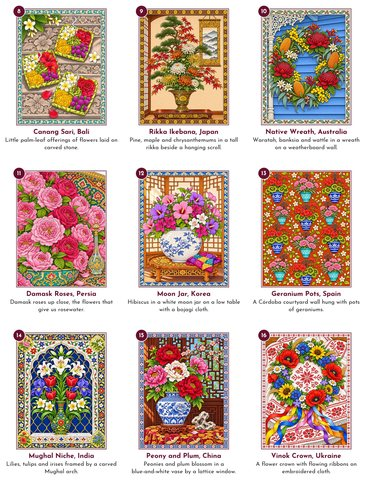
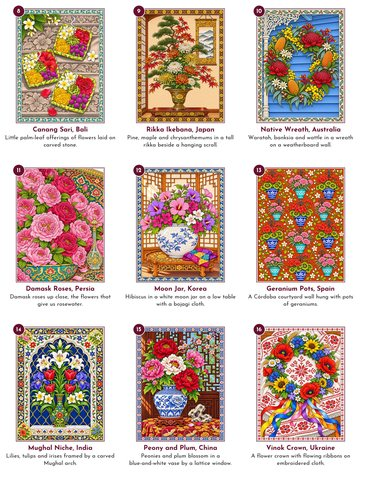
Even key pages and strip captions; shorter Flowers captions

diff --git a/colouring-for-adults.html b/colouring-for-adults.html
@@ -143,26 +143,26 @@
 
       <div class="marquee" style="--dur: 50s" role="region" aria-label="Pages from Colouring Flowers of the World for Adults. Click a page to see it bigger.">
         <div class="track">
-          <figure><a class="zoom" href="pv-fw-00a-lg.jpg" data-caption="Mughal niche, India, close-ups"><img src="pv-fw-00a.jpg" alt="Mughal niche, India, close-ups" loading="lazy"></a><figcaption>Mughal niche, India, close-ups</figcaption></figure>
-          <figure><a class="zoom" href="pv-fw-00b-lg.jpg" data-caption="Mughal niche, India, coloured"><img src="pv-fw-00b.jpg" alt="Mughal niche, India, coloured" loading="lazy"></a><figcaption>Mughal niche, India, coloured</figcaption></figure>
-          <figure><a class="zoom" href="pv-fw-01a-lg.jpg" data-caption="Protea and fynbos, South Africa, close-ups"><img src="pv-fw-01a.jpg" alt="Protea and fynbos, South Africa, close-ups" loading="lazy"></a><figcaption>Protea and fynbos, South Africa, close-ups</figcaption></figure>
-          <figure><a class="zoom" href="pv-fw-01b-lg.jpg" data-caption="Protea and fynbos, South Africa, coloured"><img src="pv-fw-01b.jpg" alt="Protea and fynbos, South Africa, coloured" loading="lazy"></a><figcaption>Protea and fynbos, South Africa, coloured</figcaption></figure>
-          <figure><a class="zoom" href="pv-fw-02a-lg.jpg" data-caption="Painted tray, Russia, close-ups"><img src="pv-fw-02a.jpg" alt="Painted tray, Russia, close-ups" loading="lazy"></a><figcaption>Painted tray, Russia, close-ups</figcaption></figure>
-          <figure><a class="zoom" href="pv-fw-02b-lg.jpg" data-caption="Painted tray, Russia, coloured"><img src="pv-fw-02b.jpg" alt="Painted tray, Russia, coloured" loading="lazy"></a><figcaption>Painted tray, Russia, coloured</figcaption></figure>
-          <figure><a class="zoom" href="pv-fw-key0-lg.jpg" data-caption="Where It Blooms, the key at the back"><img src="pv-fw-key0.jpg" alt="Where It Blooms, the key at the back" loading="lazy"></a><figcaption>Where It Blooms, the key at the back</figcaption></figure>
-          <figure><a class="zoom" href="pv-fw-key1-lg.jpg" data-caption="Where It Blooms, the key at the back"><img src="pv-fw-key1.jpg" alt="Where It Blooms, the key at the back" loading="lazy"></a><figcaption>Where It Blooms, the key at the back</figcaption></figure>
-          <figure><a class="zoom" href="pv-fw-key2-lg.jpg" data-caption="Where It Blooms, the key at the back"><img src="pv-fw-key2.jpg" alt="Where It Blooms, the key at the back" loading="lazy"></a><figcaption>Where It Blooms, the key at the back</figcaption></figure>
-          <figure><a class="zoom" href="pv-fw-key3-lg.jpg" data-caption="Where It Blooms, the key at the back"><img src="pv-fw-key3.jpg" alt="Where It Blooms, the key at the back" loading="lazy"></a><figcaption>Where It Blooms, the key at the back</figcaption></figure>
-          <figure aria-hidden="true"><a class="zoom" href="pv-fw-00a-lg.jpg" tabindex="-1" data-caption="Mughal niche, India, close-ups"><img src="pv-fw-00a.jpg" alt="" loading="lazy"></a><figcaption>Mughal niche, India, close-ups</figcaption></figure>
-          <figure aria-hidden="true"><a class="zoom" href="pv-fw-00b-lg.jpg" tabindex="-1" data-caption="Mughal niche, India, coloured"><img src="pv-fw-00b.jpg" alt="" loading="lazy"></a><figcaption>Mughal niche, India, coloured</figcaption></figure>
-          <figure aria-hidden="true"><a class="zoom" href="pv-fw-01a-lg.jpg" tabindex="-1" data-caption="Protea and fynbos, South Africa, close-ups"><img src="pv-fw-01a.jpg" alt="" loading="lazy"></a><figcaption>Protea and fynbos, South Africa, close-ups</figcaption></figure>
-          <figure aria-hidden="true"><a class="zoom" href="pv-fw-01b-lg.jpg" tabindex="-1" data-caption="Protea and fynbos, South Africa, coloured"><img src="pv-fw-01b.jpg" alt="" loading="lazy"></a><figcaption>Protea and fynbos, South Africa, coloured</figcaption></figure>
-          <figure aria-hidden="true"><a class="zoom" href="pv-fw-02a-lg.jpg" tabindex="-1" data-caption="Painted tray, Russia, close-ups"><img src="pv-fw-02a.jpg" alt="" loading="lazy"></a><figcaption>Painted tray, Russia, close-ups</figcaption></figure>
-          <figure aria-hidden="true"><a class="zoom" href="pv-fw-02b-lg.jpg" tabindex="-1" data-caption="Painted tray, Russia, coloured"><img src="pv-fw-02b.jpg" alt="" loading="lazy"></a><figcaption>Painted tray, Russia, coloured</figcaption></figure>
-          <figure aria-hidden="true"><a class="zoom" href="pv-fw-key0-lg.jpg" tabindex="-1" data-caption="Where It Blooms, the key at the back"><img src="pv-fw-key0.jpg" alt="" loading="lazy"></a><figcaption>Where It Blooms, the key at the back</figcaption></figure>
-          <figure aria-hidden="true"><a class="zoom" href="pv-fw-key1-lg.jpg" tabindex="-1" data-caption="Where It Blooms, the key at the back"><img src="pv-fw-key1.jpg" alt="" loading="lazy"></a><figcaption>Where It Blooms, the key at the back</figcaption></figure>
-          <figure aria-hidden="true"><a class="zoom" href="pv-fw-key2-lg.jpg" tabindex="-1" data-caption="Where It Blooms, the key at the back"><img src="pv-fw-key2.jpg" alt="" loading="lazy"></a><figcaption>Where It Blooms, the key at the back</figcaption></figure>
-          <figure aria-hidden="true"><a class="zoom" href="pv-fw-key3-lg.jpg" tabindex="-1" data-caption="Where It Blooms, the key at the back"><img src="pv-fw-key3.jpg" alt="" loading="lazy"></a><figcaption>Where It Blooms, the key at the back</figcaption></figure>
+          <figure><a class="zoom" href="pv-fw-00a-lg.jpg" data-caption="Mughal niche, close-ups"><img src="pv-fw-00a.jpg" alt="Mughal niche, close-ups" loading="lazy"></a><figcaption>Mughal niche, close-ups</figcaption></figure>
+          <figure><a class="zoom" href="pv-fw-00b-lg.jpg" data-caption="Mughal niche, coloured"><img src="pv-fw-00b.jpg" alt="Mughal niche, coloured" loading="lazy"></a><figcaption>Mughal niche, coloured</figcaption></figure>
+          <figure><a class="zoom" href="pv-fw-01a-lg.jpg" data-caption="Protea, close-ups"><img src="pv-fw-01a.jpg" alt="Protea, close-ups" loading="lazy"></a><figcaption>Protea, close-ups</figcaption></figure>
+          <figure><a class="zoom" href="pv-fw-01b-lg.jpg" data-caption="Protea, coloured"><img src="pv-fw-01b.jpg" alt="Protea, coloured" loading="lazy"></a><figcaption>Protea, coloured</figcaption></figure>
+          <figure><a class="zoom" href="pv-fw-02a-lg.jpg" data-caption="Painted tray, close-ups"><img src="pv-fw-02a.jpg" alt="Painted tray, close-ups" loading="lazy"></a><figcaption>Painted tray, close-ups</figcaption></figure>
+          <figure><a class="zoom" href="pv-fw-02b-lg.jpg" data-caption="Painted tray, coloured"><img src="pv-fw-02b.jpg" alt="Painted tray, coloured" loading="lazy"></a><figcaption>Painted tray, coloured</figcaption></figure>
+          <figure><a class="zoom" href="pv-fw-key0-lg.jpg" data-caption="The key at the back"><img src="pv-fw-key0.jpg" alt="The key at the back" loading="lazy"></a><figcaption>The key at the back</figcaption></figure>
+          <figure><a class="zoom" href="pv-fw-key1-lg.jpg" data-caption="The key at the back"><img src="pv-fw-key1.jpg" alt="The key at the back" loading="lazy"></a><figcaption>The key at the back</figcaption></figure>
+          <figure><a class="zoom" href="pv-fw-key2-lg.jpg" data-caption="The key at the back"><img src="pv-fw-key2.jpg" alt="The key at the back" loading="lazy"></a><figcaption>The key at the back</figcaption></figure>
+          <figure><a class="zoom" href="pv-fw-key3-lg.jpg" data-caption="The key at the back"><img src="pv-fw-key3.jpg" alt="The key at the back" loading="lazy"></a><figcaption>The key at the back</figcaption></figure>
+          <figure aria-hidden="true"><a class="zoom" href="pv-fw-00a-lg.jpg" tabindex="-1" data-caption="Mughal niche, close-ups"><img src="pv-fw-00a.jpg" alt="" loading="lazy"></a><figcaption>Mughal niche, close-ups</figcaption></figure>
+          <figure aria-hidden="true"><a class="zoom" href="pv-fw-00b-lg.jpg" tabindex="-1" data-caption="Mughal niche, coloured"><img src="pv-fw-00b.jpg" alt="" loading="lazy"></a><figcaption>Mughal niche, coloured</figcaption></figure>
+          <figure aria-hidden="true"><a class="zoom" href="pv-fw-01a-lg.jpg" tabindex="-1" data-caption="Protea, close-ups"><img src="pv-fw-01a.jpg" alt="" loading="lazy"></a><figcaption>Protea, close-ups</figcaption></figure>
+          <figure aria-hidden="true"><a class="zoom" href="pv-fw-01b-lg.jpg" tabindex="-1" data-caption="Protea, coloured"><img src="pv-fw-01b.jpg" alt="" loading="lazy"></a><figcaption>Protea, coloured</figcaption></figure>
+          <figure aria-hidden="true"><a class="zoom" href="pv-fw-02a-lg.jpg" tabindex="-1" data-caption="Painted tray, close-ups"><img src="pv-fw-02a.jpg" alt="" loading="lazy"></a><figcaption>Painted tray, close-ups</figcaption></figure>
+          <figure aria-hidden="true"><a class="zoom" href="pv-fw-02b-lg.jpg" tabindex="-1" data-caption="Painted tray, coloured"><img src="pv-fw-02b.jpg" alt="" loading="lazy"></a><figcaption>Painted tray, coloured</figcaption></figure>
+          <figure aria-hidden="true"><a class="zoom" href="pv-fw-key0-lg.jpg" tabindex="-1" data-caption="The key at the back"><img src="pv-fw-key0.jpg" alt="" loading="lazy"></a><figcaption>The key at the back</figcaption></figure>
+          <figure aria-hidden="true"><a class="zoom" href="pv-fw-key1-lg.jpg" tabindex="-1" data-caption="The key at the back"><img src="pv-fw-key1.jpg" alt="" loading="lazy"></a><figcaption>The key at the back</figcaption></figure>
+          <figure aria-hidden="true"><a class="zoom" href="pv-fw-key2-lg.jpg" tabindex="-1" data-caption="The key at the back"><img src="pv-fw-key2.jpg" alt="" loading="lazy"></a><figcaption>The key at the back</figcaption></figure>
+          <figure aria-hidden="true"><a class="zoom" href="pv-fw-key3-lg.jpg" tabindex="-1" data-caption="The key at the back"><img src="pv-fw-key3.jpg" alt="" loading="lazy"></a><figcaption>The key at the back</figcaption></figure>
         </div>
       </div>
 

diff --git a/style.css b/style.css
@@ -211,3 +211,6 @@
   .mq-next { right: max(16px, calc(50vw - 600px)); }
   .mq-prev:hover, .mq-next:hover { background: #fff; transform: scale(1.08); }
   @media (max-width: 760px) { .mq-prev, .mq-next { top: 87px; width: 40px; height: 40px; font-size: 1.7rem; } }
+
+  /* a caption never widens its picture: it wraps under the image, so the strip keeps an even gap between pictures */
+  .marquee figcaption, .strip figcaption { width: 0; min-width: 100%; line-height: 1.45; }
